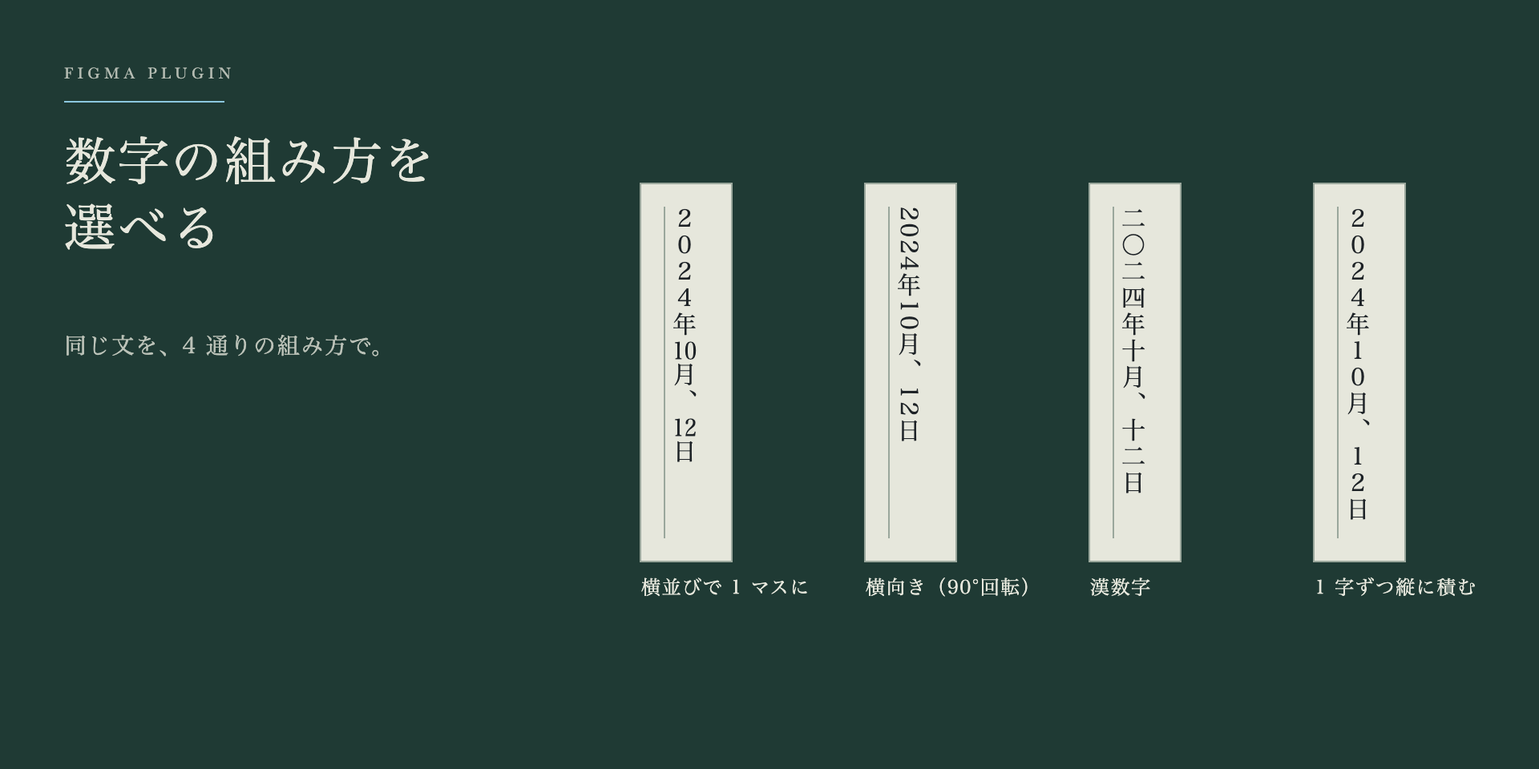
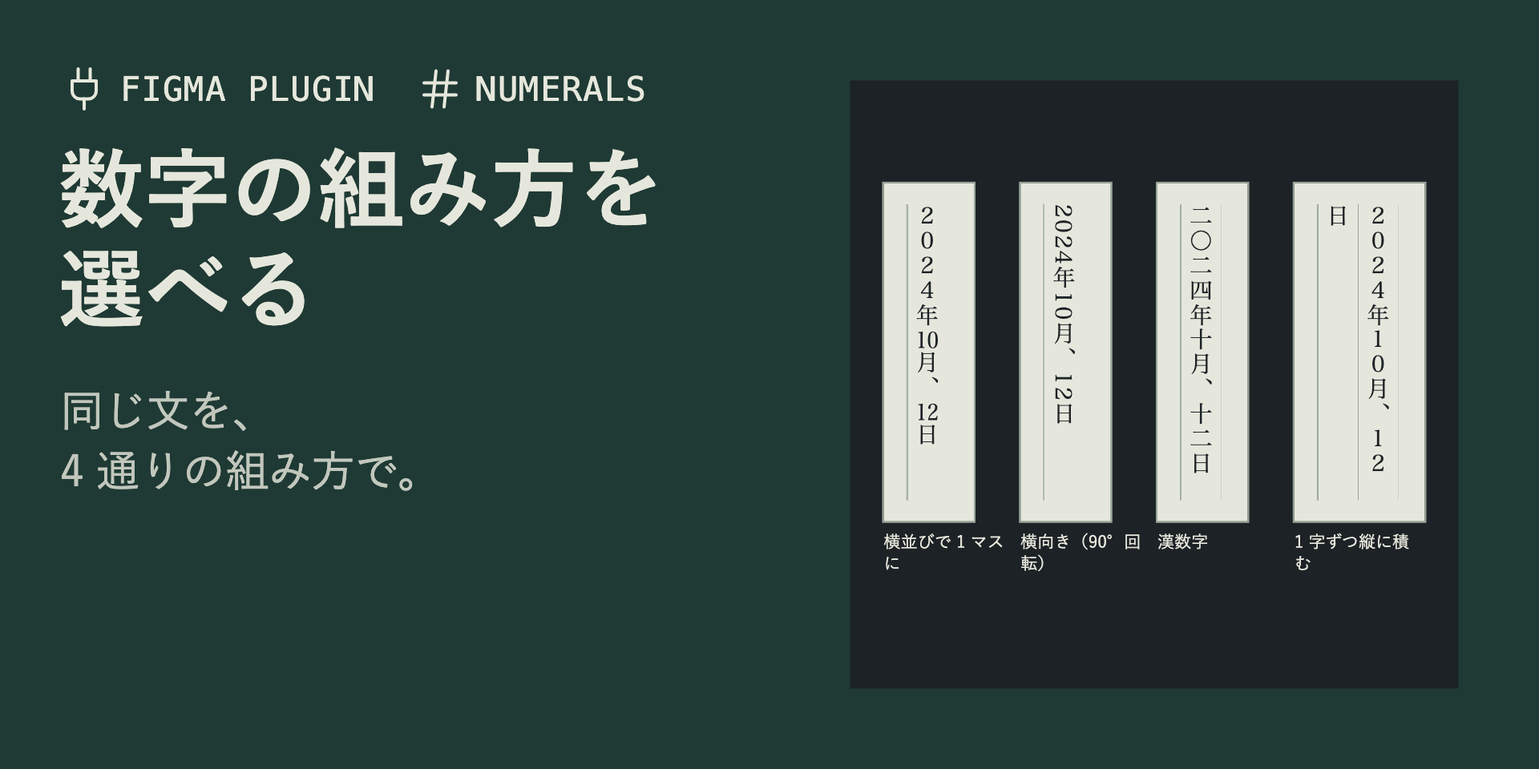
Follow the past note thumbnail layout for cover and carousel; add note/Substack cover (EN/JA)

diff --git a/assets/source/cover.html b/assets/source/cover.html
@@ -1,58 +1,17 @@
 <!doctype html>
-<html lang="en">
-<head>
-<meta charset="utf-8" />
-<title>Vertical Japanese Text cover</title>
-<!--
-  Classic direction (2026-11-05): after a Japanese ruled notebook (立罫ノート).
-  ground = chalkboard green #1F3A34, paper = off-white #E6E7DC, spine ink = #1D2226, rule blue = #8CC8DF (used thinly).
-  Canvas 1920x960 (Figma Community cover, 2:1). Margin 80.
--->
-<style>
-  :root { --green:#1F3A34; --paper:#E6E7DC; --ink:#1D2226; --rule:#8CC8DF; --line:#9AA79C; }
-  * { box-sizing: border-box; margin: 0; }
-  html, body { width: 1920px; height: 960px; }
-  body { position: relative; overflow: hidden; background: var(--green); color: var(--paper);
-    font-family: 'Baskerville', 'Iowan Old Style', 'Hiragino Mincho ProN', 'Yu Mincho', serif; }
-  .tag { position: absolute; left: 80px; top: 80px; font-size: 22px; letter-spacing: .28em; text-transform: uppercase; opacity: .75; }
-  .title { position: absolute; left: 80px; top: 150px; font-size: 118px; line-height: 1.12; font-weight: 400; letter-spacing: -.01em; }
-  .sub { position: absolute; left: 80px; bottom: 80px; }
-  .sub .en { font-size: 36px; line-height: 1.4; }
-  .sub .ja { margin-top: 10px; font-family: 'Hiragino Mincho ProN', 'Yu Mincho', serif; font-size: 28px; opacity: .78; letter-spacing: .12em; }
-  .rule { position: absolute; left: 80px; top: 132px; width: 240px; height: 2px; background: var(--rule); }
-
-  /* the notebook cover */
-  .book { position: absolute; left: 1100px; top: 90px; width: 700px; height: 780px; background: var(--paper); }
-  .spine { position: absolute; right: 0; top: 0; bottom: 0; width: 70px; background: var(--ink); }
-  .frame { position: absolute; left: 46px; top: 46px; width: 520px; height: 688px; border: 2px solid var(--line); }
-  .frame::after { content: ''; position: absolute; inset: 6px; border: 1px solid var(--line); }
-  .ruled { position: absolute; left: 76px; top: 86px; width: 480px; height: 608px;
-    background: repeating-linear-gradient(to left, transparent 0, transparent 47px, var(--line) 47px, var(--line) 48px);
-    border-left: 1px solid var(--line); }
-  .ruled .t { position: absolute; right: 0; top: 14px; height: 580px; writing-mode: vertical-rl;
-    font-family: 'Hiragino Mincho ProN', 'Yu Mincho', serif; font-size: 27px; line-height: 48px; letter-spacing: .1em; color: var(--ink); }
-  .sel { position: absolute; left: 70px; top: 80px; width: 492px; height: 620px; outline: 2px solid var(--rule); outline-offset: 0; }
-  .h { position: absolute; width: 16px; height: 16px; background: var(--paper); border: 2px solid var(--rule); }
-  .chip { position: absolute; left: 70px; top: 712px; background: var(--rule); color: var(--ink); font-family: 'Helvetica Neue', sans-serif; font-weight: 600; font-size: 20px; line-height: 1; padding: 9px 12px; }
-</style>
-</head>
-<body>
-  <div class="tag">Figma plugin</div>
-  <div class="rule"></div>
-  <div class="title">Vertical<br>Japanese Text</div>
-  <div class="sub">
-    <div class="en">Drag the height. Vertical Japanese text reflows.</div>
-    <div class="ja">縦書き自動折り返し</div>
-  </div>
-
-  <div class="book">
-    <div class="frame"></div>
-    <div class="ruled"><div class="t">吾輩は猫である。名前はまだ無い。どこで生れたかとんと見当がつかぬ。何でも薄暗いじめじめした所でニャーニャー泣いていた事だけは記憶している。吾輩はここで始めて人間というものを見た。</div></div>
-    <div class="sel"></div>
-    <i class="h" style="left:62px;top:72px"></i><i class="h" style="left:554px;top:72px"></i>
-    <i class="h" style="left:62px;top:692px"></i><i class="h" style="left:554px;top:692px"></i>
-    <div class="chip">480 × 608 Hug</div>
-    <div class="spine"></div>
-  </div>
-</body>
-</html>
+<html lang="en"><head><meta charset="utf-8" /><title>cover en 1920x960</title>
+<link rel="stylesheet" href="_note.css" />
+<style>html, body { width: 1920px; height: 960px; } .art { height: 640px; transform: scale(1.5); }</style></head>
+<body><div class="art">
+<div class="tags"><span class="tag"><svg viewBox="0 0 24 24" fill="none" stroke="#E6E7DC" stroke-width="1.6" stroke-linecap="round" stroke-linejoin="round"><path d="M12 22v-5"/><path d="M9 8V2"/><path d="M15 8V2"/><path d="M18 8v5a4 4 0 0 1-4 4h-4a4 4 0 0 1-4-4V8Z"/></svg>Figma plugin</span><span class="tag"><svg viewBox="0 0 24 24" fill="none" stroke="#E6E7DC" stroke-width="1.6" stroke-linecap="round" stroke-linejoin="round"><polyline points="4 7 4 4 20 4 20 7"/><line x1="9" x2="15" y1="20" y2="20"/><line x1="12" x2="12" y1="4" y2="20"/></svg>Typography</span></div>
+<div class="title" style="font-size:72px">Vertical<br>Japanese Text</div>
+<div class="subt" style="top:306px">Drag the height.<br>Vertical Japanese text reflows.</div>
+<div class="mat" style="top:67px"><div class="stage" style="width:320px;height:500px;transform:translate(-50%,-50%) scale(0.9000)"><div class="paper" style="position:absolute;left:0;top:0;width:320px;height:470px">
+  <div style="position:absolute;left:18px;top:18px;right:18px;bottom:18px;border:2px solid #9AA79C"></div>
+  <div style="position:absolute;left:24px;top:24px;right:24px;bottom:24px;border:1px solid #9AA79C"></div>
+  <div class="t rl" style="position:absolute;left:44px;top:48px;width:240px;height:374px;font-size:24px;line-height:50px;display:block">
+     <div style="position:absolute;right:0;top:10px;height:350px">吾輩は猫である。名前はまだ無い。どこで生れたかとんと見当がつかぬ。何でも薄暗いじめじめした所で</div></div>
+  <div style="position:absolute;left:38px;top:42px;width:252px;height:388px;outline:2px solid #8CC8DF"></div>
+  <i class="h" style="left:29px;top:33px"></i><i class="h" style="left:281px;top:33px"></i><i class="h" style="left:29px;top:421px"></i><i class="h" style="left:281px;top:421px"></i>
+</div><span class="chip" style="left:0;top:482px">252 × 388 Hug</span></div></div>
+</div></body></html>

diff --git a/assets/source/carousel2-ja.html b/assets/source/carousel2-ja.html
@@ -1,22 +1,15 @@
 <!doctype html>
-<html lang="ja">
-<head><meta charset="utf-8" /><title>carousel2</title>
-<link rel="stylesheet" href="_carousel.css" />
-<style>.panel { position: absolute; left: 1250px; top: 190px; width: 590px; background: #F2F2EA; color: var(--ink); padding: 34px 38px; border: 1px solid var(--line); font-family: 'Helvetica Neue', 'Hiragino Sans', sans-serif; }
-.panel .pt { font-family: 'Baskerville','Hiragino Mincho ProN',serif; font-size: 30px; margin-bottom: 18px; }
-.panel .lab { font-size: 18px; margin: 16px 0 6px; opacity: .65; }
-.panel .sel { border: 1px solid var(--line); background: #fff8; padding: 11px 14px; font-size: 21px; }
-.panel .chk { font-size: 21px; margin-top: 20px; } .panel .chk b { color: var(--green); margin-right: 8px; }
-.panel .st { margin-top: 24px; font-size: 17px; opacity: .6; }</style></head>
-<body>
-<div class="tag">Figma plugin</div>
-<div class="rule"></div>
-<div class="title ja">数字・英字・句読点の<br>組み方をパネルで選ぶ</div>
-<div class="sub ja">句読点のルールも、チェックひとつです。</div>
-<div class="card" style="left:800px;top:300px;width:356px;height:470px"><div class="t" style="height:414px">吾輩は猫である。名前はまだ無い。どこで生れたかとんと見当がつかぬ。何でも薄暗いじめじめした所で</div><i class="h a"></i><i class="h b"></i><i class="h c"></i><i class="h d"></i><span class="chip">410 px</span></div><div class="panel"><div class="pt">縦書き自動折り返し</div>
-<div class="lab">数字</div><div class="sel">横並びで 1 マスに（縦中横・2 桁まで）</div>
-<div class="lab">英字</div><div class="sel">横向き（90°回転）</div>
-<div class="lab">句読点・括弧の縦書き表示</div><div class="sel">縦書き用の文字に置き換える</div>
-<div class="chk"><b>✓</b> 行頭・行末のルールを守る</div><div class="chk"><b>✓</b> 句読点を列の下にはみ出させる</div>
-<div class="st">6 列 ・ 1 列 12 字 ・ 高さ 410px</div></div>
-</body></html>
+<html lang="ja"><head><meta charset="utf-8" /><title>carousel2 ja 1920x960</title>
+<link rel="stylesheet" href="_note.css" />
+<style>html, body { width: 1920px; height: 960px; } .art { height: 640px; transform: scale(1.5); }</style></head>
+<body><div class="art">
+<div class="tags"><span class="tag"><svg viewBox="0 0 24 24" fill="none" stroke="#E6E7DC" stroke-width="1.6" stroke-linecap="round" stroke-linejoin="round"><path d="M12 22v-5"/><path d="M9 8V2"/><path d="M15 8V2"/><path d="M18 8v5a4 4 0 0 1-4 4h-4a4 4 0 0 1-4-4V8Z"/></svg>Figma plugin</span><span class="tag"><svg viewBox="0 0 24 24" fill="none" stroke="#E6E7DC" stroke-width="1.6" stroke-linecap="round" stroke-linejoin="round"><line x1="21" x2="14" y1="4" y2="4"/><line x1="10" x2="3" y1="4" y2="4"/><line x1="21" x2="12" y1="12" y2="12"/><line x1="8" x2="3" y1="12" y2="12"/><line x1="21" x2="16" y1="20" y2="20"/><line x1="12" x2="3" y1="20" y2="20"/><line x1="14" x2="14" y1="2" y2="6"/><line x1="8" x2="8" y1="10" y2="14"/><line x1="16" x2="16" y1="18" y2="22"/></svg>Settings</span></div>
+<div class="title ja" style="font-size:62px">数字・英字・句読点の<br>組み方を選ぶ</div>
+<div class="subt" style="top:316px">句読点のルールも、<br>チェックひとつ。</div>
+<div class="mat" style="top:67px"><div class="stage" style="width:750px;height:520px;transform:translate(-50%,-50%) scale(0.6000)"><div class="paper" style="position:absolute;left:0;top:60px;width:206px;height:360px;outline:2px solid #8CC8DF"><div class="t rl" style="position:absolute;left:28px;top:28px;height:304px;font-size:25px;line-height:50px">吾輩は猫である。名前はまだ無い。どこで生れたかとんと見当がつかぬ。</div><i class="h" style="left:-9px;top:-9px"></i><i class="h" style="left:199px;top:-9px"></i><i class="h" style="left:-9px;top:353px"></i><i class="h" style="left:199px;top:353px"></i><span class="chip" style="left:0;top:374px">360 px</span></div><div style="position:absolute;left:250px;top:0;width:500px;background:#F2F2EA;color:#1D2226;padding:26px 28px;border:1px solid #9AA79C">
+<div style="font-size:24px;margin-bottom:10px">縦書き自動折り返し</div>
+<div style="font-size:16px;margin:12px 0 5px;opacity:.65;font-weight:500">数字</div><div style="border:1px solid #9AA79C;background:#fff8;padding:9px 12px;font-size:19px;font-weight:500">横並びで 1 マスに（縦中横・2 桁まで）</div>
+<div style="font-size:16px;margin:12px 0 5px;opacity:.65;font-weight:500">英字</div><div style="border:1px solid #9AA79C;background:#fff8;padding:9px 12px;font-size:19px;font-weight:500">横向き（90°回転）</div>
+<div style="font-size:16px;margin:12px 0 5px;opacity:.65;font-weight:500">句読点・括弧の縦書き表示</div><div style="border:1px solid #9AA79C;background:#fff8;padding:9px 12px;font-size:19px;font-weight:500">縦書き用の文字に置き換える</div>
+<div style="font-size:19px;margin-top:14px;font-weight:500"><b style="color:#1F3A34">✓</b> 行頭・行末のルールを守る</div><div style="font-size:19px;margin-top:14px;font-weight:500"><b style="color:#1F3A34">✓</b> 句読点を列の下にはみ出させる</div></div></div></div>
+</div></body></html>

diff --git a/assets/source/carousel2.html b/assets/source/carousel2.html
@@ -1,22 +1,15 @@
 <!doctype html>
-<html lang="en">
-<head><meta charset="utf-8" /><title>carousel2</title>
-<link rel="stylesheet" href="_carousel.css" />
-<style>.panel { position: absolute; left: 1250px; top: 190px; width: 590px; background: #F2F2EA; color: var(--ink); padding: 34px 38px; border: 1px solid var(--line); font-family: 'Helvetica Neue', 'Hiragino Sans', sans-serif; }
-.panel .pt { font-family: 'Baskerville','Hiragino Mincho ProN',serif; font-size: 30px; margin-bottom: 18px; }
-.panel .lab { font-size: 18px; margin: 16px 0 6px; opacity: .65; }
-.panel .sel { border: 1px solid var(--line); background: #fff8; padding: 11px 14px; font-size: 21px; }
-.panel .chk { font-size: 21px; margin-top: 20px; } .panel .chk b { color: var(--green); margin-right: 8px; }
-.panel .st { margin-top: 24px; font-size: 17px; opacity: .6; }</style></head>
-<body>
-<div class="tag">Figma plugin</div>
-<div class="rule"></div>
-<div class="title">Set digits, letters<br>and punctuation</div>
-<div class="sub">Punctuation rules are one checkbox each.</div>
-<div class="card" style="left:800px;top:300px;width:356px;height:470px"><div class="t" style="height:414px">吾輩は猫である。名前はまだ無い。どこで生れたかとんと見当がつかぬ。何でも薄暗いじめじめした所で</div><i class="h a"></i><i class="h b"></i><i class="h c"></i><i class="h d"></i><span class="chip">410 px</span></div><div class="panel"><div class="pt">Vertical Japanese Text</div>
-<div class="lab">Numerals</div><div class="sel">Side by side in one cell (up to 2 digits)</div>
-<div class="lab">Latin letters (A–Z)</div><div class="sel">Rotated 90°</div>
-<div class="lab">Punctuation and brackets</div><div class="sel">Use vertical-form characters</div>
-<div class="chk"><b>✓</b> Keep punctuation off column edges</div><div class="chk"><b>✓</b> Let 、。 hang past the column end</div>
-<div class="st">6 columns · 12 per column · height 410px</div></div>
-</body></html>
+<html lang="en"><head><meta charset="utf-8" /><title>carousel2 en 1920x960</title>
+<link rel="stylesheet" href="_note.css" />
+<style>html, body { width: 1920px; height: 960px; } .art { height: 640px; transform: scale(1.5); }</style></head>
+<body><div class="art">
+<div class="tags"><span class="tag"><svg viewBox="0 0 24 24" fill="none" stroke="#E6E7DC" stroke-width="1.6" stroke-linecap="round" stroke-linejoin="round"><path d="M12 22v-5"/><path d="M9 8V2"/><path d="M15 8V2"/><path d="M18 8v5a4 4 0 0 1-4 4h-4a4 4 0 0 1-4-4V8Z"/></svg>Figma plugin</span><span class="tag"><svg viewBox="0 0 24 24" fill="none" stroke="#E6E7DC" stroke-width="1.6" stroke-linecap="round" stroke-linejoin="round"><line x1="21" x2="14" y1="4" y2="4"/><line x1="10" x2="3" y1="4" y2="4"/><line x1="21" x2="12" y1="12" y2="12"/><line x1="8" x2="3" y1="12" y2="12"/><line x1="21" x2="16" y1="20" y2="20"/><line x1="12" x2="3" y1="20" y2="20"/><line x1="14" x2="14" y1="2" y2="6"/><line x1="8" x2="8" y1="10" y2="14"/><line x1="16" x2="16" y1="18" y2="22"/></svg>Settings</span></div>
+<div class="title" style="font-size:72px">Set digits, letters<br>and punctuation</div>
+<div class="subt" style="top:306px">Punctuation rules are<br>one checkbox each.</div>
+<div class="mat" style="top:67px"><div class="stage" style="width:750px;height:520px;transform:translate(-50%,-50%) scale(0.6000)"><div class="paper" style="position:absolute;left:0;top:60px;width:206px;height:360px;outline:2px solid #8CC8DF"><div class="t rl" style="position:absolute;left:28px;top:28px;height:304px;font-size:25px;line-height:50px">吾輩は猫である。名前はまだ無い。どこで生れたかとんと見当がつかぬ。</div><i class="h" style="left:-9px;top:-9px"></i><i class="h" style="left:199px;top:-9px"></i><i class="h" style="left:-9px;top:353px"></i><i class="h" style="left:199px;top:353px"></i><span class="chip" style="left:0;top:374px">360 px</span></div><div style="position:absolute;left:250px;top:0;width:500px;background:#F2F2EA;color:#1D2226;padding:26px 28px;border:1px solid #9AA79C">
+<div style="font-size:24px;margin-bottom:10px">Vertical Japanese Text</div>
+<div style="font-size:16px;margin:12px 0 5px;opacity:.65;font-weight:500">Numerals</div><div style="border:1px solid #9AA79C;background:#fff8;padding:9px 12px;font-size:19px;font-weight:500">Side by side in one cell (up to 2 digits)</div>
+<div style="font-size:16px;margin:12px 0 5px;opacity:.65;font-weight:500">Latin letters (A–Z)</div><div style="border:1px solid #9AA79C;background:#fff8;padding:9px 12px;font-size:19px;font-weight:500">Rotated 90°</div>
+<div style="font-size:16px;margin:12px 0 5px;opacity:.65;font-weight:500">Punctuation and brackets</div><div style="border:1px solid #9AA79C;background:#fff8;padding:9px 12px;font-size:19px;font-weight:500">Use vertical-form characters</div>
+<div style="font-size:19px;margin-top:14px;font-weight:500"><b style="color:#1F3A34">✓</b> Keep punctuation off column edges</div><div style="font-size:19px;margin-top:14px;font-weight:500"><b style="color:#1F3A34">✓</b> Let 、。 hang past the column end</div></div></div></div>
+</div></body></html>

diff --git a/assets/source/carousel3-ja.html b/assets/source/carousel3-ja.html
@@ -1,12 +1,10 @@
 <!doctype html>
-<html lang="ja">
-<head><meta charset="utf-8" /><title>carousel3</title>
-<link rel="stylesheet" href="_carousel.css" />
-<style></style></head>
-<body>
-<div class="tag">Figma plugin</div>
-<div class="rule"></div>
-<div class="title ja">数字の組み方を<br>選べる</div>
-<div class="sub ja">同じ文を、4 通りの組み方で。</div>
-<div class="card" style="left:800px;top:230px;width:112px;height:470px;outline-color:var(--line)"><div class="t" style="height:414px;font-size:30px;line-height:50px;"><span style="text-orientation:upright">2024</span>年<span style="text-combine-upright:all">10</span>月、<span style="text-combine-upright:all">12</span>日</div><span class="cap ja" style="color:#E6E7DC">横並びで 1 マスに</span></div><div class="card" style="left:1080px;top:230px;width:112px;height:470px;outline-color:var(--line)"><div class="t" style="height:414px;font-size:30px;line-height:50px;">2024年10月、12日</div><span class="cap ja" style="color:#E6E7DC">横向き（90°回転）</span></div><div class="card" style="left:1360px;top:230px;width:112px;height:470px;outline-color:var(--line)"><div class="t" style="height:414px;font-size:30px;line-height:50px;">二〇二四年十月、十二日</div><span class="cap ja" style="color:#E6E7DC">漢数字</span></div><div class="card" style="left:1640px;top:230px;width:112px;height:470px;outline-color:var(--line)"><div class="t" style="height:414px;font-size:30px;line-height:50px;text-orientation:upright;">2024年10月、12日</div><span class="cap ja" style="color:#E6E7DC">1 字ずつ縦に積む</span></div>
-</body></html>
+<html lang="ja"><head><meta charset="utf-8" /><title>carousel3 ja 1920x960</title>
+<link rel="stylesheet" href="_note.css" />
+<style>html, body { width: 1920px; height: 960px; } .art { height: 640px; transform: scale(1.5); }</style></head>
+<body><div class="art">
+<div class="tags"><span class="tag"><svg viewBox="0 0 24 24" fill="none" stroke="#E6E7DC" stroke-width="1.6" stroke-linecap="round" stroke-linejoin="round"><path d="M12 22v-5"/><path d="M9 8V2"/><path d="M15 8V2"/><path d="M18 8v5a4 4 0 0 1-4 4h-4a4 4 0 0 1-4-4V8Z"/></svg>Figma plugin</span><span class="tag"><svg viewBox="0 0 24 24" fill="none" stroke="#E6E7DC" stroke-width="1.6" stroke-linecap="round" stroke-linejoin="round"><line x1="4" x2="20" y1="9" y2="9"/><line x1="4" x2="20" y1="15" y2="15"/><line x1="10" x2="8" y1="3" y2="21"/><line x1="16" x2="14" y1="3" y2="21"/></svg>Numerals</span></div>
+<div class="title ja" style="font-size:72px">数字の組み方を<br>選べる</div>
+<div class="subt" style="top:316px">同じ文を、<br>4 通りの組み方で。</div>
+<div class="mat" style="top:67px"><div class="stage" style="width:672px;height:500px;transform:translate(-50%,-50%) scale(0.6696)"><div class="paper" style="position:absolute;left:0px;top:0;width:112px;height:420px;outline:2px solid #9AA79C"><div class="t rl" style="position:absolute;left:28px;top:26px;height:368px;font-size:28px;line-height:50px;"><span style="text-orientation:upright">2024</span>年<span style="text-combine-upright:all">10</span>月、<span style="text-combine-upright:all">12</span>日</div><div style="position:absolute;left:0;top:432px;width:150px;color:#E6E7DC;font-size:21px;line-height:1.3;font-weight:500">横並びで 1 マスに</div></div><div class="paper" style="position:absolute;left:170px;top:0;width:112px;height:420px;outline:2px solid #9AA79C"><div class="t rl" style="position:absolute;left:28px;top:26px;height:368px;font-size:28px;line-height:50px;">2024年10月、12日</div><div style="position:absolute;left:0;top:432px;width:150px;color:#E6E7DC;font-size:21px;line-height:1.3;font-weight:500">横向き（90°回転）</div></div><div class="paper" style="position:absolute;left:340px;top:0;width:112px;height:420px;outline:2px solid #9AA79C"><div class="t rl" style="position:absolute;left:28px;top:26px;height:368px;font-size:28px;line-height:50px;">二〇二四年十月、十二日</div><div style="position:absolute;left:0;top:432px;width:150px;color:#E6E7DC;font-size:21px;line-height:1.3;font-weight:500">漢数字</div></div><div class="paper" style="position:absolute;left:510px;top:0;width:162px;height:420px;outline:2px solid #9AA79C"><div class="t rl" style="position:absolute;left:28px;top:26px;height:368px;font-size:28px;line-height:50px;text-orientation:upright;">2024年10月、12日</div><div style="position:absolute;left:0;top:432px;width:150px;color:#E6E7DC;font-size:21px;line-height:1.3;font-weight:500">1 字ずつ縦に積む</div></div></div></div>
+</div></body></html>

diff --git a/assets/source/carousel3.html b/assets/source/carousel3.html
@@ -1,12 +1,10 @@
 <!doctype html>
-<html lang="en">
-<head><meta charset="utf-8" /><title>carousel3</title>
-<link rel="stylesheet" href="_carousel.css" />
-<style></style></head>
-<body>
-<div class="tag">Figma plugin</div>
-<div class="rule"></div>
-<div class="title">Choose how<br>numerals are set</div>
-<div class="sub">The same sentence, four ways.</div>
-<div class="card" style="left:800px;top:230px;width:112px;height:470px;outline-color:var(--line)"><div class="t" style="height:414px;font-size:30px;line-height:50px;"><span style="text-orientation:upright">2024</span>年<span style="text-combine-upright:all">10</span>月、<span style="text-combine-upright:all">12</span>日</div><span class="cap" style="color:#E6E7DC">Side by side in one cell</span></div><div class="card" style="left:1080px;top:230px;width:112px;height:470px;outline-color:var(--line)"><div class="t" style="height:414px;font-size:30px;line-height:50px;">2024年10月、12日</div><span class="cap" style="color:#E6E7DC">Rotated 90°</span></div><div class="card" style="left:1360px;top:230px;width:112px;height:470px;outline-color:var(--line)"><div class="t" style="height:414px;font-size:30px;line-height:50px;">二〇二四年十月、十二日</div><span class="cap" style="color:#E6E7DC">Kanji numerals</span></div><div class="card" style="left:1640px;top:230px;width:112px;height:470px;outline-color:var(--line)"><div class="t" style="height:414px;font-size:30px;line-height:50px;text-orientation:upright;">2024年10月、12日</div><span class="cap" style="color:#E6E7DC">One digit per line</span></div>
-</body></html>
+<html lang="en"><head><meta charset="utf-8" /><title>carousel3 en 1920x960</title>
+<link rel="stylesheet" href="_note.css" />
+<style>html, body { width: 1920px; height: 960px; } .art { height: 640px; transform: scale(1.5); }</style></head>
+<body><div class="art">
+<div class="tags"><span class="tag"><svg viewBox="0 0 24 24" fill="none" stroke="#E6E7DC" stroke-width="1.6" stroke-linecap="round" stroke-linejoin="round"><path d="M12 22v-5"/><path d="M9 8V2"/><path d="M15 8V2"/><path d="M18 8v5a4 4 0 0 1-4 4h-4a4 4 0 0 1-4-4V8Z"/></svg>Figma plugin</span><span class="tag"><svg viewBox="0 0 24 24" fill="none" stroke="#E6E7DC" stroke-width="1.6" stroke-linecap="round" stroke-linejoin="round"><line x1="4" x2="20" y1="9" y2="9"/><line x1="4" x2="20" y1="15" y2="15"/><line x1="10" x2="8" y1="3" y2="21"/><line x1="16" x2="14" y1="3" y2="21"/></svg>Numerals</span></div>
+<div class="title" style="font-size:72px">Choose how<br>numerals are set</div>
+<div class="subt" style="top:306px">The same sentence,<br>four ways.</div>
+<div class="mat" style="top:67px"><div class="stage" style="width:672px;height:500px;transform:translate(-50%,-50%) scale(0.6696)"><div class="paper" style="position:absolute;left:0px;top:0;width:112px;height:420px;outline:2px solid #9AA79C"><div class="t rl" style="position:absolute;left:28px;top:26px;height:368px;font-size:28px;line-height:50px;"><span style="text-orientation:upright">2024</span>年<span style="text-combine-upright:all">10</span>月、<span style="text-combine-upright:all">12</span>日</div><div style="position:absolute;left:0;top:432px;width:150px;color:#E6E7DC;font-size:21px;line-height:1.3;font-weight:500">Side by side in one cell</div></div><div class="paper" style="position:absolute;left:170px;top:0;width:112px;height:420px;outline:2px solid #9AA79C"><div class="t rl" style="position:absolute;left:28px;top:26px;height:368px;font-size:28px;line-height:50px;">2024年10月、12日</div><div style="position:absolute;left:0;top:432px;width:150px;color:#E6E7DC;font-size:21px;line-height:1.3;font-weight:500">Rotated 90°</div></div><div class="paper" style="position:absolute;left:340px;top:0;width:112px;height:420px;outline:2px solid #9AA79C"><div class="t rl" style="position:absolute;left:28px;top:26px;height:368px;font-size:28px;line-height:50px;">二〇二四年十月、十二日</div><div style="position:absolute;left:0;top:432px;width:150px;color:#E6E7DC;font-size:21px;line-height:1.3;font-weight:500">Kanji numerals</div></div><div class="paper" style="position:absolute;left:510px;top:0;width:162px;height:420px;outline:2px solid #9AA79C"><div class="t rl" style="position:absolute;left:28px;top:26px;height:368px;font-size:28px;line-height:50px;text-orientation:upright;">2024年10月、12日</div><div style="position:absolute;left:0;top:432px;width:150px;color:#E6E7DC;font-size:21px;line-height:1.3;font-weight:500">One digit per line</div></div></div></div>
+</div></body></html>

diff --git a/assets/source/carousel1-ja.html b/assets/source/carousel1-ja.html
@@ -1,12 +1,10 @@
 <!doctype html>
-<html lang="ja">
-<head><meta charset="utf-8" /><title>carousel1</title>
-<link rel="stylesheet" href="_carousel.css" />
-<style></style></head>
-<body>
-<div class="tag">Figma plugin</div>
-<div class="rule"></div>
-<div class="title ja">高さを引くと、<br>列が折り返す</div>
-<div class="sub ja">幅は追従し、右端は動きません。</div>
-<div class="card" style="left:800px;top:200px;width:206px;height:640px"><div class="t" style="height:584px">吾輩は猫である。名前はまだ無い。どこで生れたかとんと見当がつかぬ。何でも薄暗いじめじめした所で</div><i class="h a"></i><i class="h b"></i><i class="h c"></i><i class="h d"></i><span class="chip">640 px</span></div><div class="card" style="left:1076px;top:410px;width:256px;height:430px"><div class="t" style="height:374px">吾輩は猫である。名前はまだ無い。どこで生れたかとんと見当がつかぬ。何でも薄暗いじめじめした所で</div><i class="h a"></i><i class="h b"></i><i class="h c"></i><i class="h d"></i><span class="chip">430 px</span></div><div class="card" style="left:1402px;top:540px;width:406px;height:300px"><div class="t" style="height:244px">吾輩は猫である。名前はまだ無い。どこで生れたかとんと見当がつかぬ。何でも薄暗いじめじめした所で</div><i class="h a"></i><i class="h b"></i><i class="h c"></i><i class="h d"></i><span class="chip">300 px</span></div>
-</body></html>
+<html lang="ja"><head><meta charset="utf-8" /><title>carousel1 ja 1920x960</title>
+<link rel="stylesheet" href="_note.css" />
+<style>html, body { width: 1920px; height: 960px; } .art { height: 640px; transform: scale(1.5); }</style></head>
+<body><div class="art">
+<div class="tags"><span class="tag"><svg viewBox="0 0 24 24" fill="none" stroke="#E6E7DC" stroke-width="1.6" stroke-linecap="round" stroke-linejoin="round"><path d="M12 22v-5"/><path d="M9 8V2"/><path d="M15 8V2"/><path d="M18 8v5a4 4 0 0 1-4 4h-4a4 4 0 0 1-4-4V8Z"/></svg>Figma plugin</span><span class="tag"><svg viewBox="0 0 24 24" fill="none" stroke="#E6E7DC" stroke-width="1.6" stroke-linecap="round" stroke-linejoin="round"><polyline points="8 18 12 22 16 18"/><polyline points="8 6 12 2 16 6"/><line x1="12" x2="12" y1="2" y2="22"/></svg>Reflow</span></div>
+<div class="title ja" style="font-size:72px">高さを引くと、<br>列が折り返す</div>
+<div class="subt" style="top:316px">幅は追従し、<br>右端は動かない</div>
+<div class="mat" style="top:67px"><div class="stage" style="width:906px;height:530px;transform:translate(-50%,-50%) scale(0.4967)"><div class="paper" style="position:absolute;left:0px;top:20px;width:206px;height:480px;outline:2px solid #8CC8DF"><div class="t rl" style="position:absolute;left:28px;top:28px;height:424px;font-size:25px;line-height:50px">吾輩は猫である。名前はまだ無い。どこで生れたかとんと見当がつかぬ。</div><i class="h" style="left:-9px;top:-9px"></i><i class="h" style="left:199px;top:-9px"></i><i class="h" style="left:-9px;top:473px"></i><i class="h" style="left:199px;top:473px"></i><span class="chip" style="left:0;top:494px">480 px</span></div><div class="paper" style="position:absolute;left:250px;top:170px;width:256px;height:330px;outline:2px solid #8CC8DF"><div class="t rl" style="position:absolute;left:28px;top:28px;height:274px;font-size:25px;line-height:50px">吾輩は猫である。名前はまだ無い。どこで生れたかとんと見当がつかぬ。</div><i class="h" style="left:-9px;top:-9px"></i><i class="h" style="left:249px;top:-9px"></i><i class="h" style="left:-9px;top:323px"></i><i class="h" style="left:249px;top:323px"></i><span class="chip" style="left:0;top:344px">330 px</span></div><div class="paper" style="position:absolute;left:550px;top:270px;width:356px;height:230px;outline:2px solid #8CC8DF"><div class="t rl" style="position:absolute;left:28px;top:28px;height:174px;font-size:25px;line-height:50px">吾輩は猫である。名前はまだ無い。どこで生れたかとんと見当がつかぬ。</div><i class="h" style="left:-9px;top:-9px"></i><i class="h" style="left:349px;top:-9px"></i><i class="h" style="left:-9px;top:223px"></i><i class="h" style="left:349px;top:223px"></i><span class="chip" style="left:0;top:244px">230 px</span></div></div></div>
+</div></body></html>

diff --git a/assets/source/carousel1.html b/assets/source/carousel1.html
@@ -1,12 +1,10 @@
 <!doctype html>
-<html lang="en">
-<head><meta charset="utf-8" /><title>carousel1</title>
-<link rel="stylesheet" href="_carousel.css" />
-<style></style></head>
-<body>
-<div class="tag">Figma plugin</div>
-<div class="rule"></div>
-<div class="title">Drag the height.<br>The columns reflow.</div>
-<div class="sub">The width follows. The right edge stays put.</div>
-<div class="card" style="left:800px;top:200px;width:206px;height:640px"><div class="t" style="height:584px">吾輩は猫である。名前はまだ無い。どこで生れたかとんと見当がつかぬ。何でも薄暗いじめじめした所で</div><i class="h a"></i><i class="h b"></i><i class="h c"></i><i class="h d"></i><span class="chip">640 px</span></div><div class="card" style="left:1076px;top:410px;width:256px;height:430px"><div class="t" style="height:374px">吾輩は猫である。名前はまだ無い。どこで生れたかとんと見当がつかぬ。何でも薄暗いじめじめした所で</div><i class="h a"></i><i class="h b"></i><i class="h c"></i><i class="h d"></i><span class="chip">430 px</span></div><div class="card" style="left:1402px;top:540px;width:406px;height:300px"><div class="t" style="height:244px">吾輩は猫である。名前はまだ無い。どこで生れたかとんと見当がつかぬ。何でも薄暗いじめじめした所で</div><i class="h a"></i><i class="h b"></i><i class="h c"></i><i class="h d"></i><span class="chip">300 px</span></div>
-</body></html>
+<html lang="en"><head><meta charset="utf-8" /><title>carousel1 en 1920x960</title>
+<link rel="stylesheet" href="_note.css" />
+<style>html, body { width: 1920px; height: 960px; } .art { height: 640px; transform: scale(1.5); }</style></head>
+<body><div class="art">
+<div class="tags"><span class="tag"><svg viewBox="0 0 24 24" fill="none" stroke="#E6E7DC" stroke-width="1.6" stroke-linecap="round" stroke-linejoin="round"><path d="M12 22v-5"/><path d="M9 8V2"/><path d="M15 8V2"/><path d="M18 8v5a4 4 0 0 1-4 4h-4a4 4 0 0 1-4-4V8Z"/></svg>Figma plugin</span><span class="tag"><svg viewBox="0 0 24 24" fill="none" stroke="#E6E7DC" stroke-width="1.6" stroke-linecap="round" stroke-linejoin="round"><polyline points="8 18 12 22 16 18"/><polyline points="8 6 12 2 16 6"/><line x1="12" x2="12" y1="2" y2="22"/></svg>Reflow</span></div>
+<div class="title" style="font-size:72px">Drag the height.<br>Columns reflow.</div>
+<div class="subt" style="top:306px">The width follows.<br>The right edge stays put.</div>
+<div class="mat" style="top:67px"><div class="stage" style="width:906px;height:530px;transform:translate(-50%,-50%) scale(0.4967)"><div class="paper" style="position:absolute;left:0px;top:20px;width:206px;height:480px;outline:2px solid #8CC8DF"><div class="t rl" style="position:absolute;left:28px;top:28px;height:424px;font-size:25px;line-height:50px">吾輩は猫である。名前はまだ無い。どこで生れたかとんと見当がつかぬ。</div><i class="h" style="left:-9px;top:-9px"></i><i class="h" style="left:199px;top:-9px"></i><i class="h" style="left:-9px;top:473px"></i><i class="h" style="left:199px;top:473px"></i><span class="chip" style="left:0;top:494px">480 px</span></div><div class="paper" style="position:absolute;left:250px;top:170px;width:256px;height:330px;outline:2px solid #8CC8DF"><div class="t rl" style="position:absolute;left:28px;top:28px;height:274px;font-size:25px;line-height:50px">吾輩は猫である。名前はまだ無い。どこで生れたかとんと見当がつかぬ。</div><i class="h" style="left:-9px;top:-9px"></i><i class="h" style="left:249px;top:-9px"></i><i class="h" style="left:-9px;top:323px"></i><i class="h" style="left:249px;top:323px"></i><span class="chip" style="left:0;top:344px">330 px</span></div><div class="paper" style="position:absolute;left:550px;top:270px;width:356px;height:230px;outline:2px solid #8CC8DF"><div class="t rl" style="position:absolute;left:28px;top:28px;height:174px;font-size:25px;line-height:50px">吾輩は猫である。名前はまだ無い。どこで生れたかとんと見当がつかぬ。</div><i class="h" style="left:-9px;top:-9px"></i><i class="h" style="left:349px;top:-9px"></i><i class="h" style="left:-9px;top:223px"></i><i class="h" style="left:349px;top:223px"></i><span class="chip" style="left:0;top:244px">230 px</span></div></div></div>
+</div></body></html>

diff --git a/assets/source/cover-note-ja.html b/assets/source/cover-note-ja.html
@@ -1,0 +1,17 @@
+<!doctype html>
+<html lang="ja"><head><meta charset="utf-8" /><title>cover ja 1280x670</title>
+<link rel="stylesheet" href="_note.css" />
+<style>html, body { width: 1280px; height: 670px; } .art { height: 670px; transform: scale(1.0); }</style></head>
+<body><div class="art">
+<div class="tags"><span class="tag"><svg viewBox="0 0 24 24" fill="none" stroke="#E6E7DC" stroke-width="1.6" stroke-linecap="round" stroke-linejoin="round"><path d="M12 22v-5"/><path d="M9 8V2"/><path d="M15 8V2"/><path d="M18 8v5a4 4 0 0 1-4 4h-4a4 4 0 0 1-4-4V8Z"/></svg>Figma plugin</span><span class="tag"><svg viewBox="0 0 24 24" fill="none" stroke="#E6E7DC" stroke-width="1.6" stroke-linecap="round" stroke-linejoin="round"><polyline points="4 7 4 4 20 4 20 7"/><line x1="9" x2="15" y1="20" y2="20"/><line x1="12" x2="12" y1="4" y2="20"/></svg>Typography</span></div>
+<div class="title ja" style="font-size:72px">縦書き<br>自動折り返し</div>
+<div class="subt" style="top:316px">高さを引くだけで、<br>縦書きが折り返す</div>
+<div class="mat" style="top:80px"><div class="stage" style="width:320px;height:500px;transform:translate(-50%,-50%) scale(0.9000)"><div class="paper" style="position:absolute;left:0;top:0;width:320px;height:470px">
+  <div style="position:absolute;left:18px;top:18px;right:18px;bottom:18px;border:2px solid #9AA79C"></div>
+  <div style="position:absolute;left:24px;top:24px;right:24px;bottom:24px;border:1px solid #9AA79C"></div>
+  <div class="t rl" style="position:absolute;left:44px;top:48px;width:240px;height:374px;font-size:24px;line-height:50px;display:block">
+     <div style="position:absolute;right:0;top:10px;height:350px">吾輩は猫である。名前はまだ無い。どこで生れたかとんと見当がつかぬ。何でも薄暗いじめじめした所で</div></div>
+  <div style="position:absolute;left:38px;top:42px;width:252px;height:388px;outline:2px solid #8CC8DF"></div>
+  <i class="h" style="left:29px;top:33px"></i><i class="h" style="left:281px;top:33px"></i><i class="h" style="left:29px;top:421px"></i><i class="h" style="left:281px;top:421px"></i>
+</div><span class="chip" style="left:0;top:482px">252 × 388 Hug</span></div></div>
+</div></body></html>

diff --git a/assets/source/cover-note.html b/assets/source/cover-note.html
@@ -1,0 +1,17 @@
+<!doctype html>
+<html lang="en"><head><meta charset="utf-8" /><title>cover en 1280x670</title>
+<link rel="stylesheet" href="_note.css" />
+<style>html, body { width: 1280px; height: 670px; } .art { height: 670px; transform: scale(1.0); }</style></head>
+<body><div class="art">
+<div class="tags"><span class="tag"><svg viewBox="0 0 24 24" fill="none" stroke="#E6E7DC" stroke-width="1.6" stroke-linecap="round" stroke-linejoin="round"><path d="M12 22v-5"/><path d="M9 8V2"/><path d="M15 8V2"/><path d="M18 8v5a4 4 0 0 1-4 4h-4a4 4 0 0 1-4-4V8Z"/></svg>Figma plugin</span><span class="tag"><svg viewBox="0 0 24 24" fill="none" stroke="#E6E7DC" stroke-width="1.6" stroke-linecap="round" stroke-linejoin="round"><polyline points="4 7 4 4 20 4 20 7"/><line x1="9" x2="15" y1="20" y2="20"/><line x1="12" x2="12" y1="4" y2="20"/></svg>Typography</span></div>
+<div class="title" style="font-size:72px">Vertical<br>Japanese Text</div>
+<div class="subt" style="top:306px">Drag the height.<br>Vertical Japanese text reflows.</div>
+<div class="mat" style="top:80px"><div class="stage" style="width:320px;height:500px;transform:translate(-50%,-50%) scale(0.9000)"><div class="paper" style="position:absolute;left:0;top:0;width:320px;height:470px">
+  <div style="position:absolute;left:18px;top:18px;right:18px;bottom:18px;border:2px solid #9AA79C"></div>
+  <div style="position:absolute;left:24px;top:24px;right:24px;bottom:24px;border:1px solid #9AA79C"></div>
+  <div class="t rl" style="position:absolute;left:44px;top:48px;width:240px;height:374px;font-size:24px;line-height:50px;display:block">
+     <div style="position:absolute;right:0;top:10px;height:350px">吾輩は猫である。名前はまだ無い。どこで生れたかとんと見当がつかぬ。何でも薄暗いじめじめした所で</div></div>
+  <div style="position:absolute;left:38px;top:42px;width:252px;height:388px;outline:2px solid #8CC8DF"></div>
+  <i class="h" style="left:29px;top:33px"></i><i class="h" style="left:281px;top:33px"></i><i class="h" style="left:29px;top:421px"></i><i class="h" style="left:281px;top:421px"></i>
+</div><span class="chip" style="left:0;top:482px">252 × 388 Hug</span></div></div>
+</div></body></html>

diff --git a/assets/source/_note.css b/assets/source/_note.css
@@ -1,0 +1,20 @@
+/* Layout after a past note/Substack thumbnail (Figma Plugins file, node 45:4190), 1280 x 670:
+   left column = icon tags / bold gothic title (72px) / two-line subtitle (36px); right = 506 x 506 square mat holding one picture.
+   Colors (approved): ground #1F3A34, text #E6E7DC, mat ink #1D2226, thin rule blue #8CC8DF. */
+* { box-sizing: border-box; margin: 0; }
+html, body { background: #1F3A34; }
+body { position: relative; overflow: hidden; color: #E6E7DC; font-family: 'YuGothic', 'Yu Gothic', 'Hiragino Sans', sans-serif; font-weight: 700; }
+.art { position: absolute; left: 0; top: 0; width: 1280px; transform-origin: 0 0; background: #1F3A34; }
+.tags { position: absolute; left: 50px; top: 54px; display: flex; gap: 34px; align-items: center; font-family: 'Menlo', 'SF Mono', monospace; font-weight: 400; font-size: 28px; letter-spacing: .03em; text-transform: uppercase; }
+.tag { display: flex; align-items: center; gap: 10px; }
+.tag svg { width: 40px; height: 40px; }
+.title { position: absolute; left: 48px; top: 116px; width: 640px; font-size: 72px; line-height: 1.08; letter-spacing: -.01em; }
+.title.ja { line-height: 1.15; letter-spacing: 0; }
+.subt { position: absolute; left: 50px; width: 600px; font-size: 36px; line-height: 1.4; font-weight: 500; opacity: .82; letter-spacing: -.005em; }
+.mat { position: absolute; left: 707px; width: 506px; height: 506px; background: #1D2226; }
+.stage { position: absolute; left: 50%; top: 50%; transform-origin: 50% 50%; }
+.paper { background: #E6E7DC; }
+.t { writing-mode: vertical-rl; font-family: 'Hiragino Mincho ProN', 'Yu Mincho', serif; font-weight: 400; color: #1D2226; letter-spacing: .1em; display: inline-block; }
+.rl { background: repeating-linear-gradient(to left, transparent 0, transparent 49px, #9AA79C 49px, #9AA79C 50px); border-left: 1px solid #9AA79C; }
+.h { position: absolute; width: 14px; height: 14px; background: #E6E7DC; border: 2px solid #8CC8DF; }
+.chip { position: absolute; background: #8CC8DF; color: #1D2226; font-family: 'Helvetica Neue', sans-serif; font-weight: 600; font-size: 18px; line-height: 1; padding: 7px 10px; white-space: nowrap; }

diff --git a/assets/README.md b/assets/README.md
@@ -4,6 +4,7 @@
 |---|---|
 | `publish/` | Figma Community にアップロードするファイル（英語版）: `icon-128.png`（128×128）、`cover.png`（1920×960）、`carousel1〜3.png`（1920×960）。デモ動画 `.mp4` もここに置く（git には入れない）。<br>Files to upload to Figma Community (English): icon, cover, carousel 1-3. The demo video goes here too (not tracked by git). |
 | `publish-ja/` | カルーセルの日本語版。<br>Japanese versions of the carousel. |
+| `note/` | note・Substack 用のカバー（1280×670、英語と日本語）。過去のサムネの型（左: タグ・見出し・サブタイトル、右: 正方形の台座）。<br>Cover for note / Substack (1280x670, English and Japanese), after the past thumbnail layout. |
 | `source/` | 画像の元になる HTML と CSS。ブラウザで開き、1920×960（アイコンは 128×128）で撮ると作り直せる。<br>The HTML and CSS the images are made from. Open in a browser and capture at 1920×960 (icon: 128×128). |
 
 ## アイコンについて / About the icon
@@ -12,3 +13,7 @@ The icon is drawn in Figma (file "Plugins", node `43:53`, idea B: three block ki
 
 ## 配色 / Palette (classic direction)
 黒板緑 chalkboard green `#1F3A34` · 紙 paper `#E6E7DC` · 墨 ink `#1D2226` · 罫の水色 rule blue `#8CC8DF`
+
+## レイアウト / Layout
+過去のサムネ（Figma Plugins ファイル、ノード `45:4190`）の型に合わせる: 左に「アイコン付きタグ・太いゴシックの見出し 72px・2 行のサブタイトル 36px」、右に 506×506 の正方形の台座（墨色）と、その中に画像 1 つ。共通の CSS は `source/_note.css`。<br>
+Follows the past thumbnail layout: left = icon tags, bold gothic title (72px) and a two-line subtitle (36px); right = a 506x506 square mat holding one picture. Shared CSS: `source/_note.css`.
